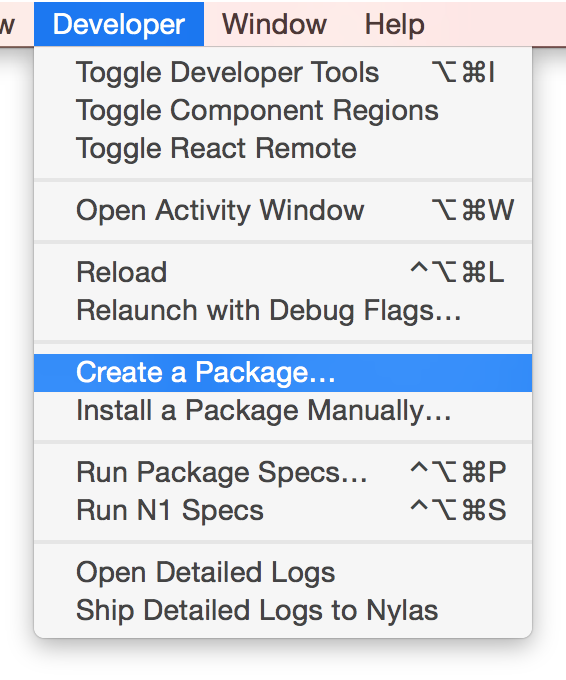
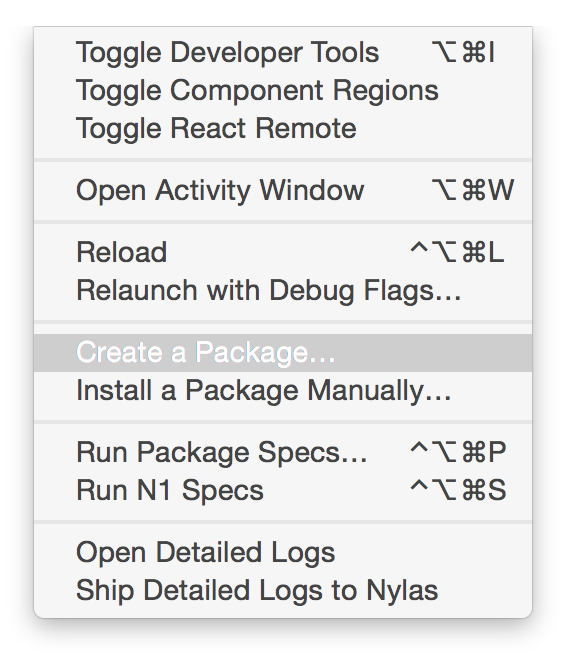
fix image on getting started page

diff --git a/getting-started/index.html b/getting-started/index.html
@@ -118,7 +118,7 @@ title: Getting started with plugins
 
     <div class="grid wider feature">
         <div class="unit one-third">
-            <img src="/N1/images/screenshot-create-plugin-B.png"/>
+            <img src="/N1/images/screenshot-create-plugin.png"/>
         </div>
         <div class="unit two-thirds" style="padding-left: 20px;">
             <h3>2. Create a plugin</h3>
